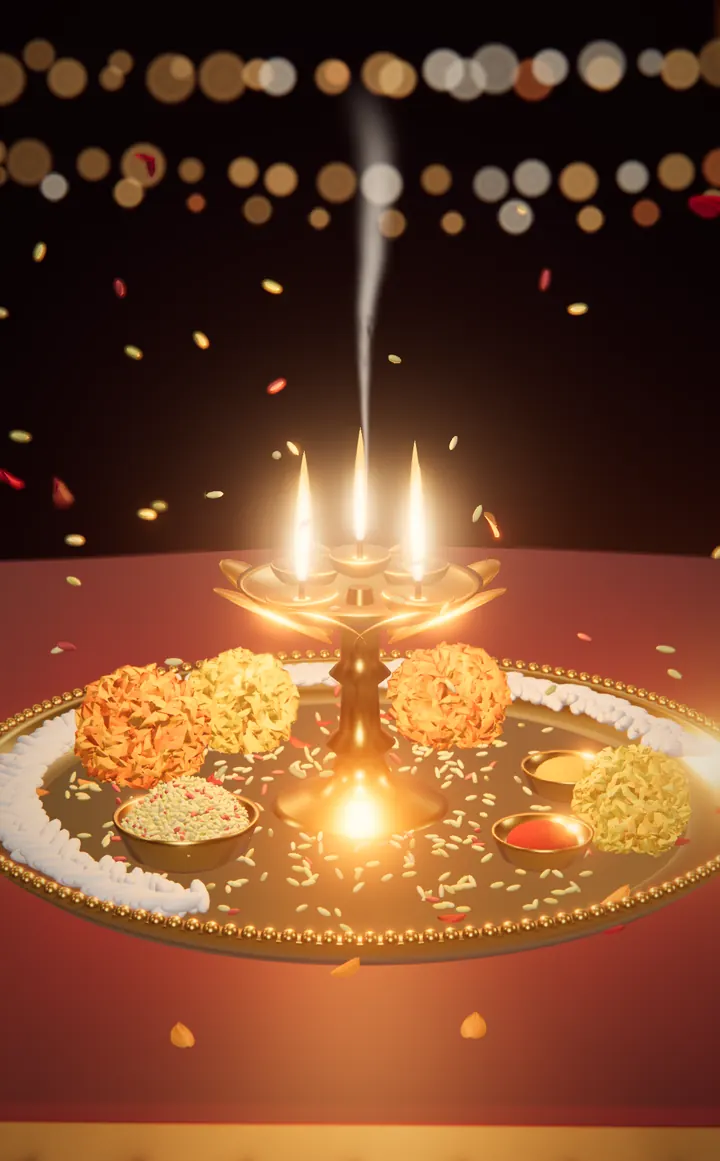
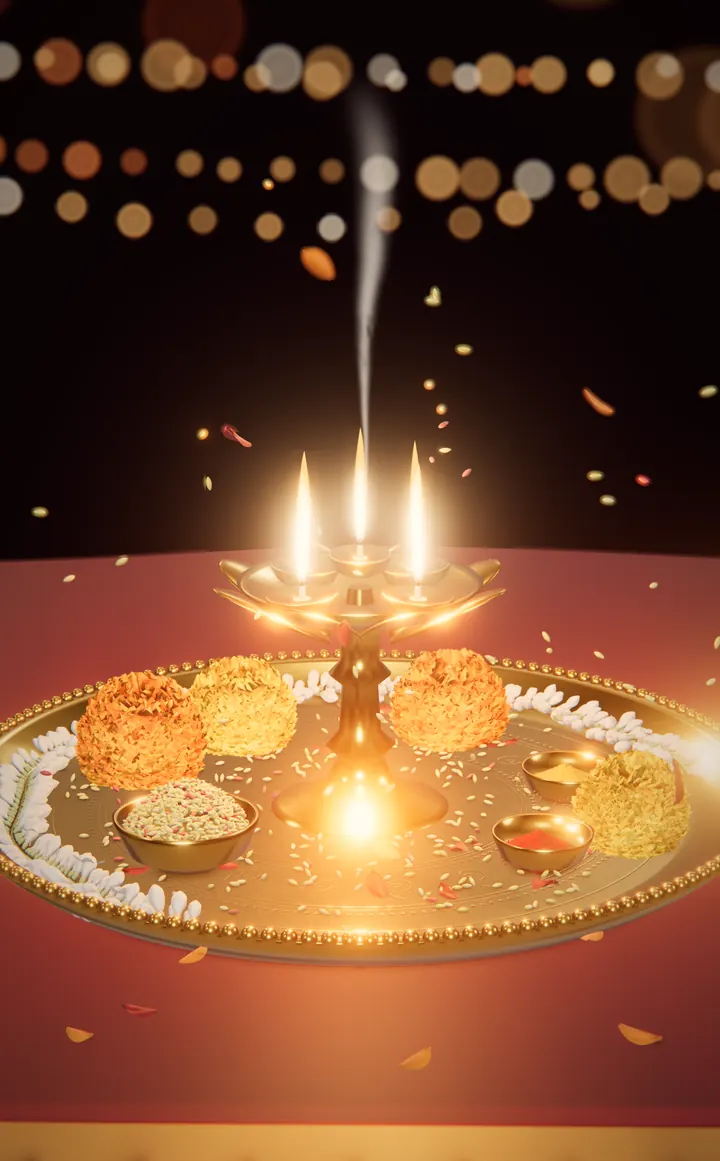
Celebrations: peak-detail renders of the arches, the map and the thamboola
Re-rendered at higher resolution with the new flora, aged metals and
contact shadows: the aarati plate (engraved plate and stand, marigolds,
jasmine strand, granular kumkum and haldi, charred wicks, silk weave), the
mangalasutra (fibrous coconut, gold wire, embossed discs, veined leaves),
the map and pin (paper fibre, foxing, varnished teak, engraved pin face)
and the thamboola plate. Layout and content unchanged.

Claude-Session: https://claude.ai/code/session_011n7UBMfFwZ2yuReFizHXe7

diff --git a/src/data/sceneArt.generated.ts b/src/data/sceneArt.generated.ts
@@ -29,8 +29,8 @@ export const SCENES: Record<SceneKey, SceneArt> = {
       width: 720,
       height: 1161,
       focus: [0.5, 0.5],
-      edges: ['#0a0304', '#b47035'],
-      lights: [{ x: 1.004, y: 0.144, r: 0.0251, kind: 'bulb', seed: 0.01 }, { x: 0.500, y: 0.440, r: 0.0700, kind: 'flame', seed: 0.17 }, { x: 0.468, y: 0.157, r: 0.0256, kind: 'bulb', seed: 0.18 }, { x: 0.838, y: 0.063, r: 0.0222, kind: 'bulb', seed: 0.20 }, { x: 0.443, y: 0.188, r: 0.0127, kind: 'bulb', seed: 0.26 }, { x: 0.075, y: 0.161, r: 0.0170, kind: 'bulb', seed: 0.27 }, { x: 0.419, y: 0.474, r: 0.0716, kind: 'flame', seed: 0.40 }, { x: 0.467, y: 0.063, r: 0.0151, kind: 'bulb', seed: 0.47 }, { x: 0.577, y: 0.451, r: 0.0681, kind: 'flame', seed: 0.48 }, { x: 0.423, y: 0.451, r: 0.0681, kind: 'flame', seed: 0.50 }, { x: 0.054, y: 0.047, r: 0.0204, kind: 'bulb', seed: 0.52 }, { x: 0.199, y: 0.142, r: 0.0286, kind: 'bulb', seed: 0.53 }, { x: 0.820, y: 0.189, r: 0.0162, kind: 'bulb', seed: 0.54 }, { x: 0.581, y: 0.474, r: 0.0716, kind: 'flame', seed: 0.59 }, { x: 0.739, y: 0.153, r: 0.0233, kind: 'bulb', seed: 0.68 }, { x: 0.462, y: 0.066, r: 0.0225, kind: 'bulb', seed: 0.70 }, { x: 0.155, y: 0.067, r: 0.0149, kind: 'bulb', seed: 0.73 }, { x: 0.764, y: 0.058, r: 0.0226, kind: 'bulb', seed: 0.83 }],
+      edges: ['#110504', '#b7763c'],
+      lights: [],
     },
     landscape: {
       src: '/images/celebrations/aarati-480.webp',
@@ -38,8 +38,8 @@ export const SCENES: Record<SceneKey, SceneArt> = {
       width: 720,
       height: 1161,
       focus: [0.5, 0.5],
-      edges: ['#0a0304', '#b47035'],
-      lights: [{ x: 1.004, y: 0.144, r: 0.0251, kind: 'bulb', seed: 0.01 }, { x: 0.500, y: 0.440, r: 0.0700, kind: 'flame', seed: 0.17 }, { x: 0.468, y: 0.157, r: 0.0256, kind: 'bulb', seed: 0.18 }, { x: 0.838, y: 0.063, r: 0.0222, kind: 'bulb', seed: 0.20 }, { x: 0.443, y: 0.188, r: 0.0127, kind: 'bulb', seed: 0.26 }, { x: 0.075, y: 0.161, r: 0.0170, kind: 'bulb', seed: 0.27 }, { x: 0.419, y: 0.474, r: 0.0716, kind: 'flame', seed: 0.40 }, { x: 0.467, y: 0.063, r: 0.0151, kind: 'bulb', seed: 0.47 }, { x: 0.577, y: 0.451, r: 0.0681, kind: 'flame', seed: 0.48 }, { x: 0.423, y: 0.451, r: 0.0681, kind: 'flame', seed: 0.50 }, { x: 0.054, y: 0.047, r: 0.0204, kind: 'bulb', seed: 0.52 }, { x: 0.199, y: 0.142, r: 0.0286, kind: 'bulb', seed: 0.53 }, { x: 0.820, y: 0.189, r: 0.0162, kind: 'bulb', seed: 0.54 }, { x: 0.581, y: 0.474, r: 0.0716, kind: 'flame', seed: 0.59 }, { x: 0.739, y: 0.153, r: 0.0233, kind: 'bulb', seed: 0.68 }, { x: 0.462, y: 0.066, r: 0.0225, kind: 'bulb', seed: 0.70 }, { x: 0.155, y: 0.067, r: 0.0149, kind: 'bulb', seed: 0.73 }, { x: 0.764, y: 0.058, r: 0.0226, kind: 'bulb', seed: 0.83 }],
+      edges: ['#110504', '#b7763c'],
+      lights: [],
     },
   },
   mangalya: {
@@ -49,8 +49,8 @@ export const SCENES: Record<SceneKey, SceneArt> = {
       width: 720,
       height: 1161,
       focus: [0.5, 0.5],
-      edges: ['#633927', '#5b6545'],
-      lights: [{ x: 0.223, y: 0.256, r: 0.1016, kind: 'flame', seed: 0.01 }, { x: 0.450, y: 0.052, r: 0.0200, kind: 'sparkle', seed: 0.01 }, { x: 0.565, y: 0.216, r: 0.0952, kind: 'flame', seed: 0.17 }, { x: 0.485, y: 0.208, r: 0.1017, kind: 'flame', seed: 0.18 }, { x: 0.300, y: 0.235, r: 0.0996, kind: 'flame', seed: 0.20 }, { x: 0.557, y: 0.209, r: 0.0996, kind: 'flame', seed: 0.26 }, { x: 0.200, y: 0.242, r: 0.1004, kind: 'flame', seed: 0.27 }, { x: 0.671, y: 0.034, r: 0.0188, kind: 'sparkle', seed: 0.38 }, { x: 0.422, y: 0.236, r: 0.0991, kind: 'flame', seed: 0.40 }, { x: 0.441, y: 0.173, r: 0.0981, kind: 'flame', seed: 0.47 }, { x: 0.233, y: 0.084, r: 0.0209, kind: 'sparkle', seed: 0.48 }, { x: 0.619, y: 0.112, r: 0.0187, kind: 'sparkle', seed: 0.50 }, { x: 0.666, y: 0.251, r: 0.1010, kind: 'flame', seed: 0.52 }, { x: 0.415, y: 0.203, r: 0.0963, kind: 'flame', seed: 0.53 }, { x: 0.461, y: 0.215, r: 0.0999, kind: 'flame', seed: 0.54 }, { x: 0.217, y: 0.250, r: 0.0961, kind: 'flame', seed: 0.59 }, { x: 0.207, y: 0.243, r: 0.0987, kind: 'flame', seed: 0.68 }, { x: 0.395, y: 0.204, r: 0.0995, kind: 'flame', seed: 0.70 }, { x: 0.595, y: 0.229, r: 0.0986, kind: 'flame', seed: 0.73 }, { x: 0.360, y: 0.215, r: 0.0212, kind: 'sparkle', seed: 0.74 }, { x: 0.542, y: 0.226, r: 0.0980, kind: 'flame', seed: 0.83 }, { x: 0.392, y: 0.035, r: 0.0202, kind: 'sparkle', seed: 0.88 }, { x: 0.577, y: 0.200, r: 0.0196, kind: 'sparkle', seed: 0.93 }],
+      edges: ['#5b3222', '#596544'],
+      lights: [{ x: 0.302, y: 0.210, r: 0.0985, kind: 'flame', seed: 0.01 }, { x: 0.389, y: 0.201, r: 0.1019, kind: 'flame', seed: 0.17 }, { x: 0.411, y: 0.205, r: 0.0980, kind: 'flame', seed: 0.18 }, { x: 0.476, y: 0.197, r: 0.0955, kind: 'flame', seed: 0.20 }, { x: 0.622, y: 0.211, r: 0.0992, kind: 'flame', seed: 0.26 }, { x: 0.264, y: 0.254, r: 0.0996, kind: 'flame', seed: 0.27 }, { x: 0.372, y: 0.203, r: 0.0976, kind: 'flame', seed: 0.40 }, { x: 0.315, y: 0.237, r: 0.0966, kind: 'flame', seed: 0.47 }, { x: 0.373, y: 0.215, r: 0.1012, kind: 'flame', seed: 0.52 }, { x: 0.215, y: 0.234, r: 0.1008, kind: 'flame', seed: 0.53 }, { x: 0.477, y: 0.209, r: 0.0954, kind: 'flame', seed: 0.54 }, { x: 0.218, y: 0.257, r: 0.1012, kind: 'flame', seed: 0.59 }, { x: 0.600, y: 0.235, r: 0.1006, kind: 'flame', seed: 0.68 }, { x: 0.237, y: 0.237, r: 0.0945, kind: 'flame', seed: 0.70 }, { x: 0.235, y: 0.234, r: 0.0981, kind: 'flame', seed: 0.73 }, { x: 0.259, y: 0.215, r: 0.1002, kind: 'flame', seed: 0.83 }],
     },
     landscape: {
       src: '/images/celebrations/mangalya-480.webp',
@@ -58,8 +58,8 @@ export const SCENES: Record<SceneKey, SceneArt> = {
       width: 720,
       height: 1161,
       focus: [0.5, 0.5],
-      edges: ['#633927', '#5b6545'],
-      lights: [{ x: 0.223, y: 0.256, r: 0.1016, kind: 'flame', seed: 0.01 }, { x: 0.450, y: 0.052, r: 0.0200, kind: 'sparkle', seed: 0.01 }, { x: 0.565, y: 0.216, r: 0.0952, kind: 'flame', seed: 0.17 }, { x: 0.485, y: 0.208, r: 0.1017, kind: 'flame', seed: 0.18 }, { x: 0.300, y: 0.235, r: 0.0996, kind: 'flame', seed: 0.20 }, { x: 0.557, y: 0.209, r: 0.0996, kind: 'flame', seed: 0.26 }, { x: 0.200, y: 0.242, r: 0.1004, kind: 'flame', seed: 0.27 }, { x: 0.671, y: 0.034, r: 0.0188, kind: 'sparkle', seed: 0.38 }, { x: 0.422, y: 0.236, r: 0.0991, kind: 'flame', seed: 0.40 }, { x: 0.441, y: 0.173, r: 0.0981, kind: 'flame', seed: 0.47 }, { x: 0.233, y: 0.084, r: 0.0209, kind: 'sparkle', seed: 0.48 }, { x: 0.619, y: 0.112, r: 0.0187, kind: 'sparkle', seed: 0.50 }, { x: 0.666, y: 0.251, r: 0.1010, kind: 'flame', seed: 0.52 }, { x: 0.415, y: 0.203, r: 0.0963, kind: 'flame', seed: 0.53 }, { x: 0.461, y: 0.215, r: 0.0999, kind: 'flame', seed: 0.54 }, { x: 0.217, y: 0.250, r: 0.0961, kind: 'flame', seed: 0.59 }, { x: 0.207, y: 0.243, r: 0.0987, kind: 'flame', seed: 0.68 }, { x: 0.395, y: 0.204, r: 0.0995, kind: 'flame', seed: 0.70 }, { x: 0.595, y: 0.229, r: 0.0986, kind: 'flame', seed: 0.73 }, { x: 0.360, y: 0.215, r: 0.0212, kind: 'sparkle', seed: 0.74 }, { x: 0.542, y: 0.226, r: 0.0980, kind: 'flame', seed: 0.83 }, { x: 0.392, y: 0.035, r: 0.0202, kind: 'sparkle', seed: 0.88 }, { x: 0.577, y: 0.200, r: 0.0196, kind: 'sparkle', seed: 0.93 }],
+      edges: ['#5b3222', '#596544'],
+      lights: [{ x: 0.302, y: 0.210, r: 0.0985, kind: 'flame', seed: 0.01 }, { x: 0.389, y: 0.201, r: 0.1019, kind: 'flame', seed: 0.17 }, { x: 0.411, y: 0.205, r: 0.0980, kind: 'flame', seed: 0.18 }, { x: 0.476, y: 0.197, r: 0.0955, kind: 'flame', seed: 0.20 }, { x: 0.622, y: 0.211, r: 0.0992, kind: 'flame', seed: 0.26 }, { x: 0.264, y: 0.254, r: 0.0996, kind: 'flame', seed: 0.27 }, { x: 0.372, y: 0.203, r: 0.0976, kind: 'flame', seed: 0.40 }, { x: 0.315, y: 0.237, r: 0.0966, kind: 'flame', seed: 0.47 }, { x: 0.373, y: 0.215, r: 0.1012, kind: 'flame', seed: 0.52 }, { x: 0.215, y: 0.234, r: 0.1008, kind: 'flame', seed: 0.53 }, { x: 0.477, y: 0.209, r: 0.0954, kind: 'flame', seed: 0.54 }, { x: 0.218, y: 0.257, r: 0.1012, kind: 'flame', seed: 0.59 }, { x: 0.600, y: 0.235, r: 0.1006, kind: 'flame', seed: 0.68 }, { x: 0.237, y: 0.237, r: 0.0945, kind: 'flame', seed: 0.70 }, { x: 0.235, y: 0.234, r: 0.0981, kind: 'flame', seed: 0.73 }, { x: 0.259, y: 0.215, r: 0.1002, kind: 'flame', seed: 0.83 }],
     },
   },
   venuemap: {
@@ -69,7 +69,7 @@ export const SCENES: Record<SceneKey, SceneArt> = {
       width: 1080,
       height: 1350,
       focus: [0.5, 0.5],
-      edges: ['#7d5a48', '#755039'],
+      edges: ['#826657', '#785441'],
       lights: [],
     },
     landscape: {
@@ -78,7 +78,7 @@ export const SCENES: Record<SceneKey, SceneArt> = {
       width: 1600,
       height: 1000,
       focus: [0.42, 0.5],
-      edges: ['#805b47', '#b7a48d'],
+      edges: ['#856757', '#b9a690'],
       lights: [],
     },
   },
